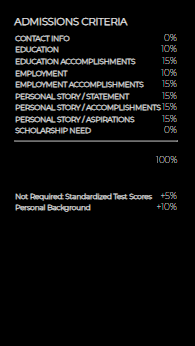
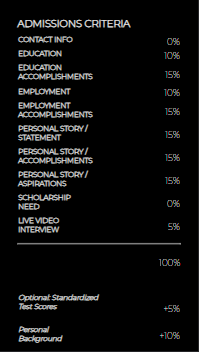
edited mobile view

diff --git a/client/src/components/Criteria.js b/client/src/components/Criteria.js
@@ -65,7 +65,7 @@ const Criteria = () => {
               {data &&
                 data.length > 0 &&
                 data
-                  .filter((item, index) => index > 4 && index < 9)
+                  .filter((item, index) => index > 4 && index < 10)
                   .map((item) => (
                     <>
                       <tr>
@@ -105,31 +105,29 @@ const Criteria = () => {
       <div className="non-required-container">
         <table className="column ">
           <tbody>
-            {/* filter through last two criteria from json file (non-required) and put in table */}
-            {data &&
-              data.length > 0 &&
-              data
-                .filter((item, index) => index > 9)
-                .map((item) => (
-                  <>
-                    <tr>
-                      <td>
-                        <div
-                          className="main-text not-required-text"
-                          key="{item.mainText}"
-                        >
-                          {item.mainText}
-                        </div>
-                        <div className="sub-text" key="{item.subText}">
-                          {item.subText}
-                        </div>
-                      </td>
-                      <td className="percent" key="{item.percent}">
-                        {item.percent}
-                      </td>
-                    </tr>
-                  </>
-                ))}
+            <tr>
+              <td className="not-required-data">
+                <div className="main-text not-required-text test-score-text">
+                  Not Required: Standardized Test Scores
+                </div>
+                <div className="sub-text">
+                  SAT, ACT, GMAT, GRE, TOEFL, OTHER
+                </div>
+              </td>
+              <td className="percent">+5%</td>
+            </tr>
+
+            <tr>
+              <td>
+                <div className="main-text not-required-text personal-background-text">
+                  Personal Background
+                </div>
+                <div className="sub-text">
+                  HH Income, Family Background, Access to Opportunity
+                </div>
+              </td>
+              <td className="percent">+10%</td>
+            </tr>
             <tr>
               <td className="case-by-case-text">
                 *Applicants below these thresholds are considered on a case by

diff --git a/client/src/components/Criteria.css b/client/src/components/Criteria.css
@@ -39,10 +39,7 @@ table {
   padding-right: 19rem;
   color: white;
 }
-/* add padding to top of non required criteria table */
-.non-required {
-  padding-top: 2rem;
-}
+
 /* text styling for page title  */
 .title {
   font-size: large;
@@ -109,10 +106,13 @@ table {
     padding: 0;
     width: 100%;
   }
+  .main-text {
+    width: 50%;
+    padding-bottom: 0.5rem;
+  }
   .row {
     padding: 0;
   }
-
   .pie-chart {
     display: none;
   }
@@ -131,10 +131,28 @@ table {
     visibility: hidden;
   }
 
-  .not-required-text {
-    text-transform: capitalize;
+  .test-score-text {
+    visibility: hidden;
+    position: relative;
   }
 
+  .test-score-text:after {
+    visibility: visible;
+    top: 0;
+    position: absolute;
+    left: 0;
+    content: "Optional: Standardized Test Scores";
+  }
+
+  .not-required-text {
+    font-style: italic;
+    text-transform: capitalize;
+    width: 60%;
+  }
+
+  .personal-background-text {
+    width: 50%;
+  }
   .non-required-container {
     width: 100%;
   }
